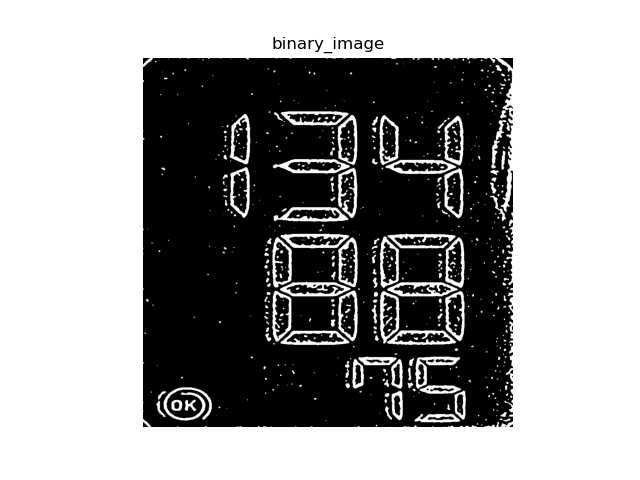
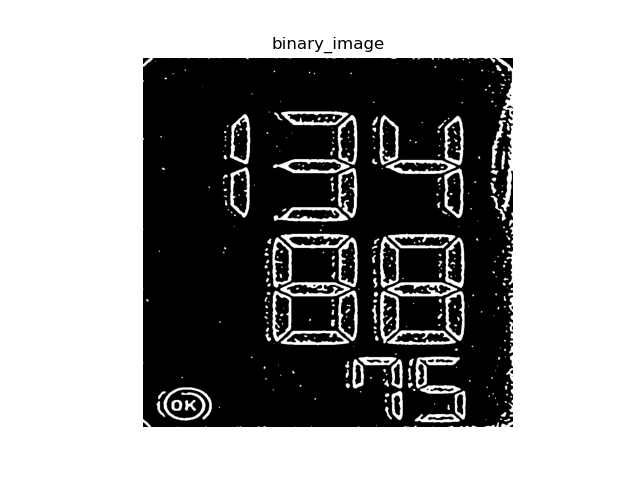
this has promise but blobs join too easily

diff --git a/assignment/purcell_finn_21500358/task2.py b/assignment/purcell_finn_21500358/task2.py
@@ -52,6 +52,7 @@ def preprocess_image(image, threshold=threshold_otsu, windowSize = 15, k=0.2):
     cv_im = img_as_ubyte(binary_im) #convert back to openCV
 
     cv_im = cv2.medianBlur(cv_im, 7)
+    cv_im = cv2.medianBlur(cv_im, 5)
     
     show_image(cv_im, title = "binary_image", cmap='binary')
 
@@ -72,7 +73,7 @@ def connectedComponentAnalysis(image):
         area = stats[i, cv2.CC_STAT_AREA]
 
         #filtering results:
-        if (area > 50):
+        if (area > 300) and (area < 500000):
             digitMask = (ids == i).astype("uint8") * 255
 
             # draw bounding box
@@ -109,7 +110,16 @@ if __name__ == "__main__":
     image = read_im_gs("images/lcd4.png")
 
     binary = preprocess_image(image, threshold_sauvola, windowSize=15, k=0.025)
-    markedImage = connectedComponentAnalysis(binary)
+
+
+    not_binary = cv2.bitwise_not(binary)
+
+    kernel = np.ones((7, 7), np.uint8)
+
+    combined = cv2.dilate(not_binary, kernel, iterations=2)
+
+    binary = cv2.bitwise_not(combined)
+    markedImage = connectedComponentAnalysis(combined)
     
     print(np.unique(binary))
 
